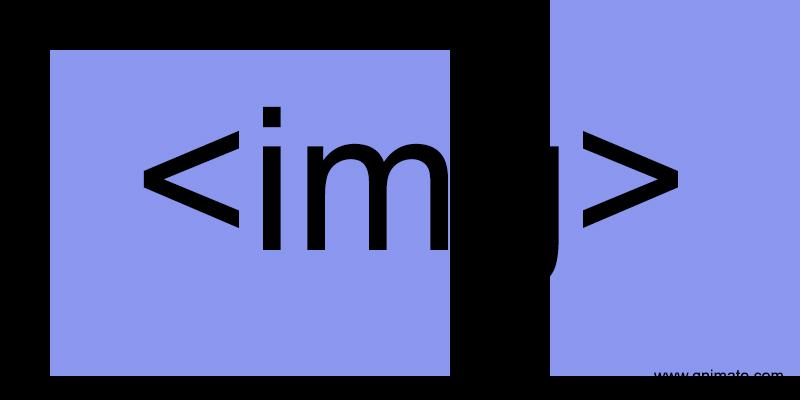
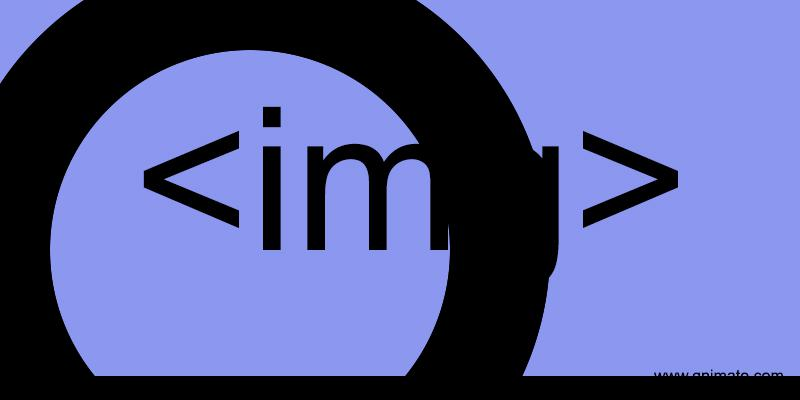
🏡🍰 Checkpoint server.py:706703/71 start.sh:706703/9

diff --git a/server.py b/server.py
@@ -32,13 +32,14 @@ def tweet_image():
 
       d = aggdraw.Draw(im)
       p = aggdraw.Pen("black", 100)
-      d.rectangle((0, 0, 500, 500), p)
-      d.rectangle((0, 500, 500, 0), p)
+      b = aggdraw.Brush("white")
+      d.ellipse((0, 0, 500, 500), p, b)
+      d.ellipse((0, 500, 500, 0), p, b)
       d.flush()
       del d
 
 # write to stdout
-      im.save('img.jpg')
+      im.save('/app/img.jpg')
       del response
     filename = 'img.jpg'
     text = "no!"
